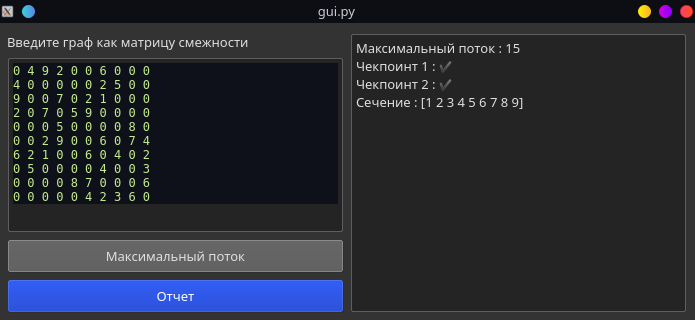
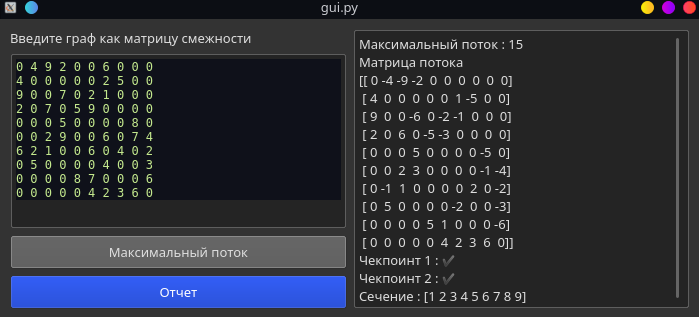
bugfix

Changed region(s): [[0.0, 0.0, 1.0, 0.9937], [0.2115, 0.9085, 0.3022, 0.9369]]

diff --git a/gui.py b/gui.py
@@ -52,8 +52,10 @@ class WidgetGallery(QDialog):
         try:
             gr = GraphPath()
             gr.split_str(self.input.toPlainText())
-            power, _ = gr.find_max_power(1, 10)
-            self.output.setText("Максимальный поток : {0}".format(power))
+            power, graph = gr.find_max_power(1, 10)
+            graph = graph - gr.graph
+            self.output.setText("Максимальный поток : {0}\nМатрица потока\n{1}"
+                                .format(power, graph))
         except BaseException:
             self.output.setText(self.err_msg)
 
@@ -63,7 +65,9 @@ class WidgetGallery(QDialog):
             gr = GraphPath()
             gr.split_str(self.input.toPlainText())
             power, graph = gr.find_max_power(1, 10)
-            list_of_text.append("Максимальный поток : {0}".format(power))
+            potok = graph - gr.graph
+            list_of_text.append("Максимальный поток : {0}\nМатрица потока\n{1}"
+                                .format(power, potok))
             check_point_one = gr.check_point_one(power, graph)
             list_of_text.append(
                 "Чекпоинт 1 : {0}".format("✔" if check_point_one else "❌❌🞪❌"))
